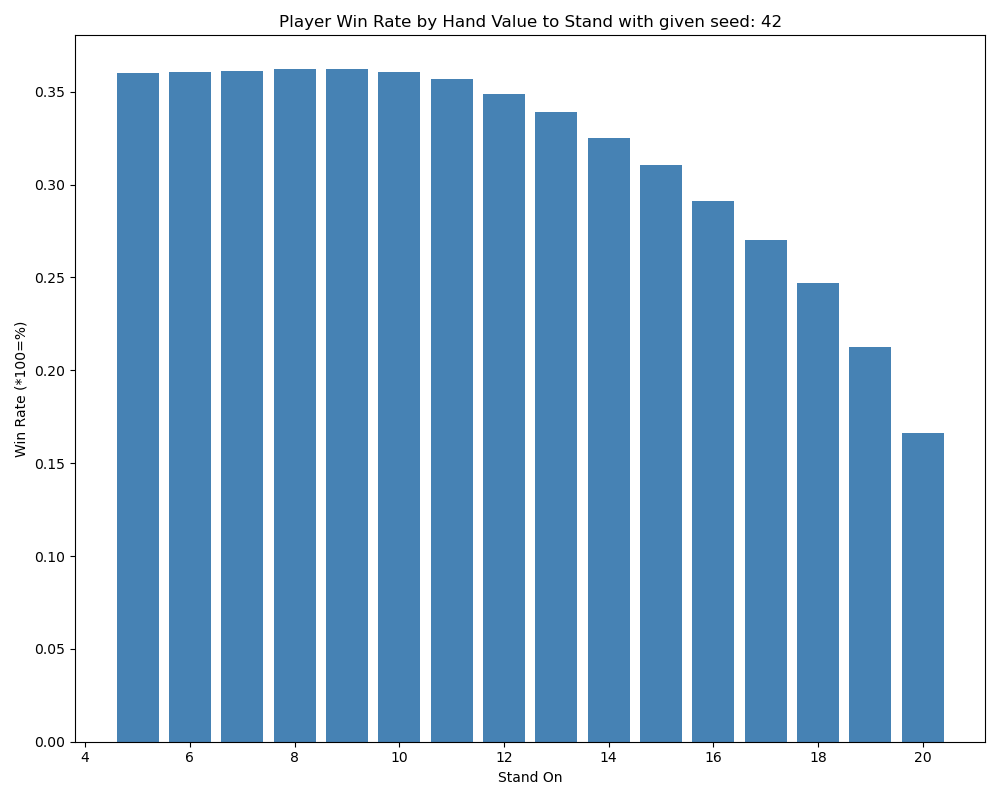
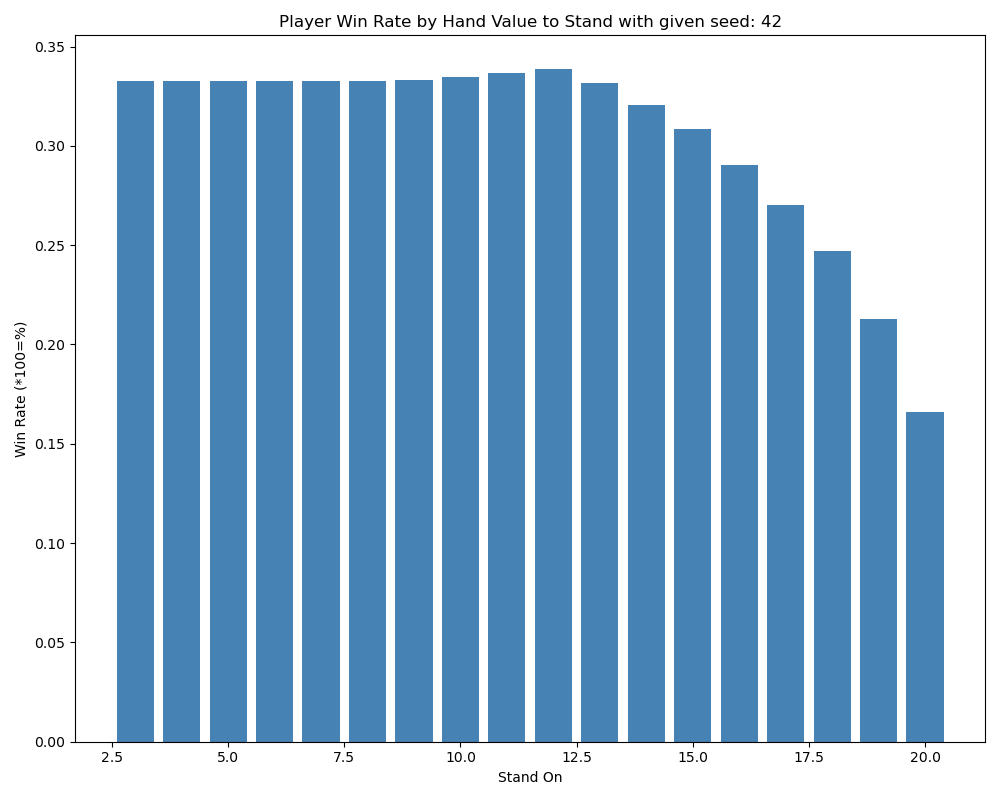
added hardcoded heatmap generation script basied on results

diff --git a/strategyHeat.py b/strategyHeat.py
@@ -1,0 +1,34 @@
+import seaborn as sns
+import matplotlib.pyplot as plt
+import numpy as np
+import pandas as pd
+
+data =np.zeros((18,10))
+x_labels=[2,3,4,5,6,7,8,9,10,11]
+y_labels=[3,4,5,6,7,8,9,10,11,12,13,14,15,16,17,18,19,20]
+for i in range(len(y_labels)):
+    for j in range(len(x_labels)):
+        if y_labels[i]<=13:
+            data[i][j]=1
+        elif x_labels[j]>6 and y_labels[i]>=17:
+            data[i][j]=1
+        else:
+            data[i][j]=0
+# Generate the heatmap
+bj=sns.heatmap(
+    data,
+    annot=True,        # Show numbers inside cells
+    fmt=".2f",         # Format numbers to 2 decimal places
+    cmap='RdBu',   # Color palette (e.g., 'viridis', 'YlGnBu', 'RdBu')
+     
+    linewidths=0.5,     # Add thin lines between cells
+    xticklabels=x_labels,  # Individual column labels
+    yticklabels=y_labels 
+)
+
+plt.suptitle("BlackJack Strategy Heatmap")
+bj.set_title("1=hit,0=stand")
+bj.set_xlabel("Dealer Upcard")
+bj.set_ylabel("Total Player Hand Value")
+plt.savefig("strategyHeatmap.png")
+plt.show()

diff --git a/blackJack.py b/blackJack.py
@@ -50,7 +50,7 @@ def player_should_hit(hand, dealer_upcard, stand_on):
     if total < stand_on:
         return True
 
-    return dealer_upcard > 6
+    return dealer_upcard > 6 and total>=17
 
 #play one hand and return net profint per 1-unit initial stake
 def play_hand(deck,stand_on=17):
@@ -150,7 +150,7 @@ def main():
     print("Fixed 1-unit stake; hit/stand only; no split/double/surrender/insurance.")
     showVals=int(input("Would you like to display each run in terminal? Y=1/n=0: "))
     stats=[]    
-    sOn=5
+    sOn=3
     i=0
     if seed ==0:
                  seed=SEED
